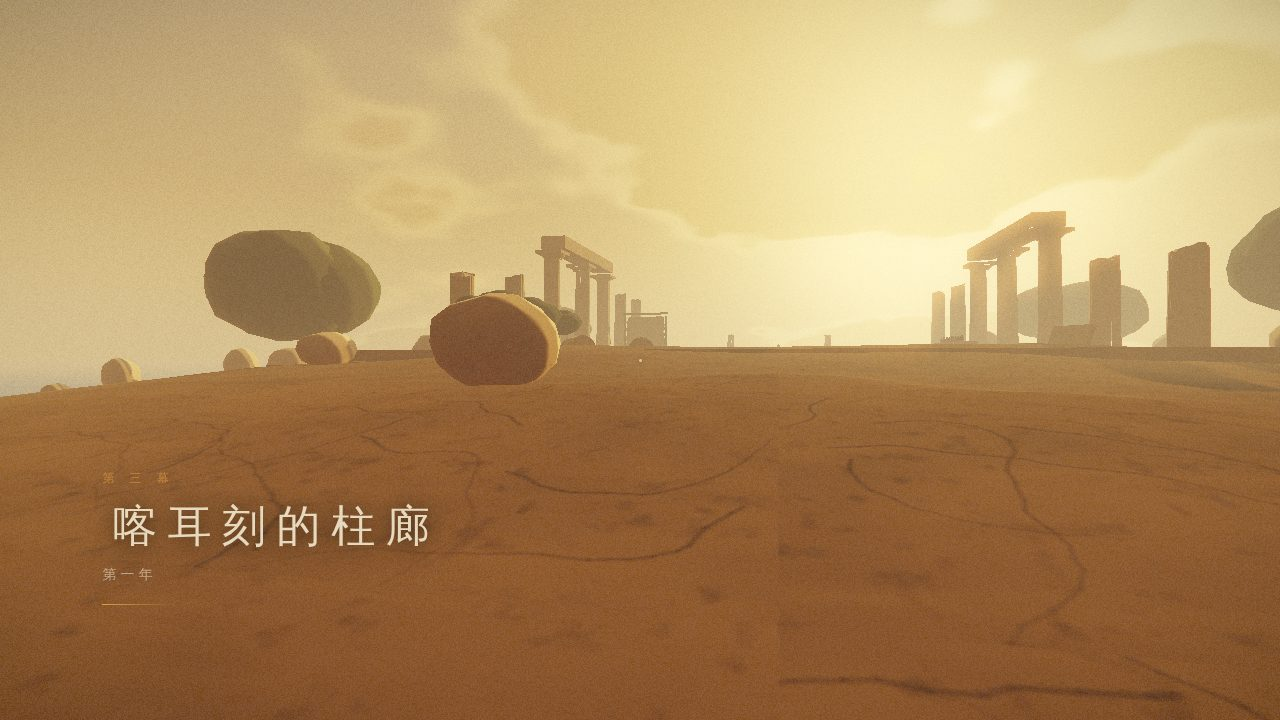
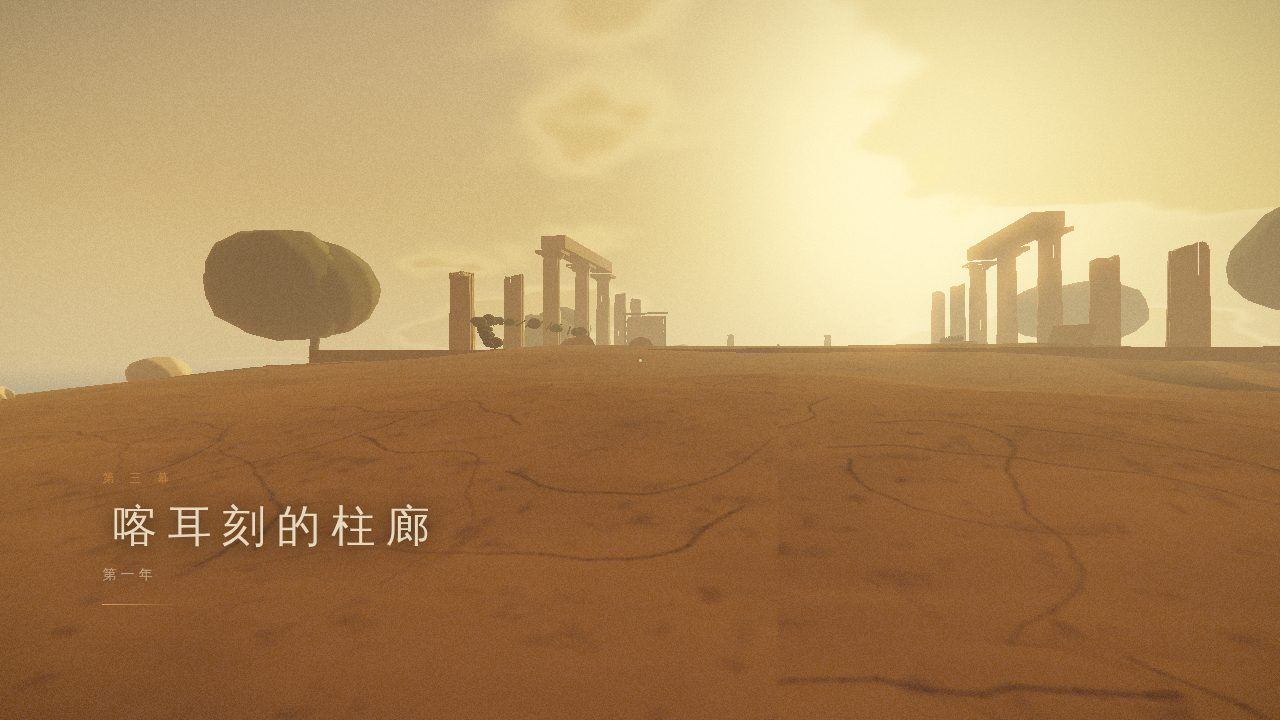
fix(nostos): 把喀耳刻柱廊的藤改成细蔓，别挡住画面
原来那条藤是九个 0.55–0.85 米的树冠团块串起来的，站在它旁边看
就是一条横在镜头前的绿毛虫，把整段柱廊挡掉了一半。

改成一根细木质藤茎贴着地与柱子走，叶子是一小簇一小簇（半径 0.2 米左右）
挂在茎上。藤是一条线，不是一串球。

重拍了第三幕的三张证据图；其余七幕未受影响，沿用上一次全程跑出来的画面。

Claude-Session: https://claude.ai/code/session_019DiDb2DCbi6XCcY5rRZtZ4

diff --git a/games/nostos/src/game/scenes/circe.ts b/games/nostos/src/game/scenes/circe.ts
@@ -274,14 +274,30 @@ export const circe: Act = {
     d.place(stoneBlock(1.6, 0.5, 1.6, 1013, 0.04), 'weatheredMarble', { x: 4.5, z: -25.5, y: FLOOR - 0.5 });
 
     // ── 爬进来又爬回去的藤 ──
-    for (let i = 0; i < 9; i += 1) {
-      const t = i / 8;
-      d.place(oliveCanopy(0.55 + d.rng() * 0.3, 1020 + i), 'olive', {
-        x: -9.5 - Math.sin(t * 3.1) * 2.2,
-        z: 14 - t * 7,
+    // 一根细木质藤蔓贴着地与柱子走，叶子是一小簇一小簇的。
+    // 团块必须小：藤是一条线，不是一串球。
+    for (let i = 0; i < 22; i += 1) {
+      const t = i / 21;
+      const x = -9.5 - Math.sin(t * 3.4) * 2.4;
+      const z = 14 - t * 8.5;
+      const lift = 0.05 + Math.max(0, Math.sin(t * 2.6)) * 1.1;
+      // 藤茎：一小段一小段接起来，比一根长管更像自然爬出来的
+      d.place(pole(0.55, 0.035, 1020 + i), 'driftwood', {
+        x,
+        z,
         y: FLOOR,
-        lift: 0.4 + Math.sin(t * 2.4) * 1.4,
+        lift,
+        tiltX: 1.1 + Math.sin(t * 5) * 0.35,
+        yaw: t * 3.4,
       });
+      if (i % 2 === 0) {
+        d.place(oliveCanopy(0.2 + d.rng() * 0.1, 1060 + i), 'olive', {
+          x: x + (d.rng() - 0.5) * 0.5,
+          z: z + (d.rng() - 0.5) * 0.5,
+          y: FLOOR,
+          lift: lift + 0.18,
+        });
+      }
     }
 
     // ── 台基之外：橄榄树与碎石，把柱廊框起来 ──
